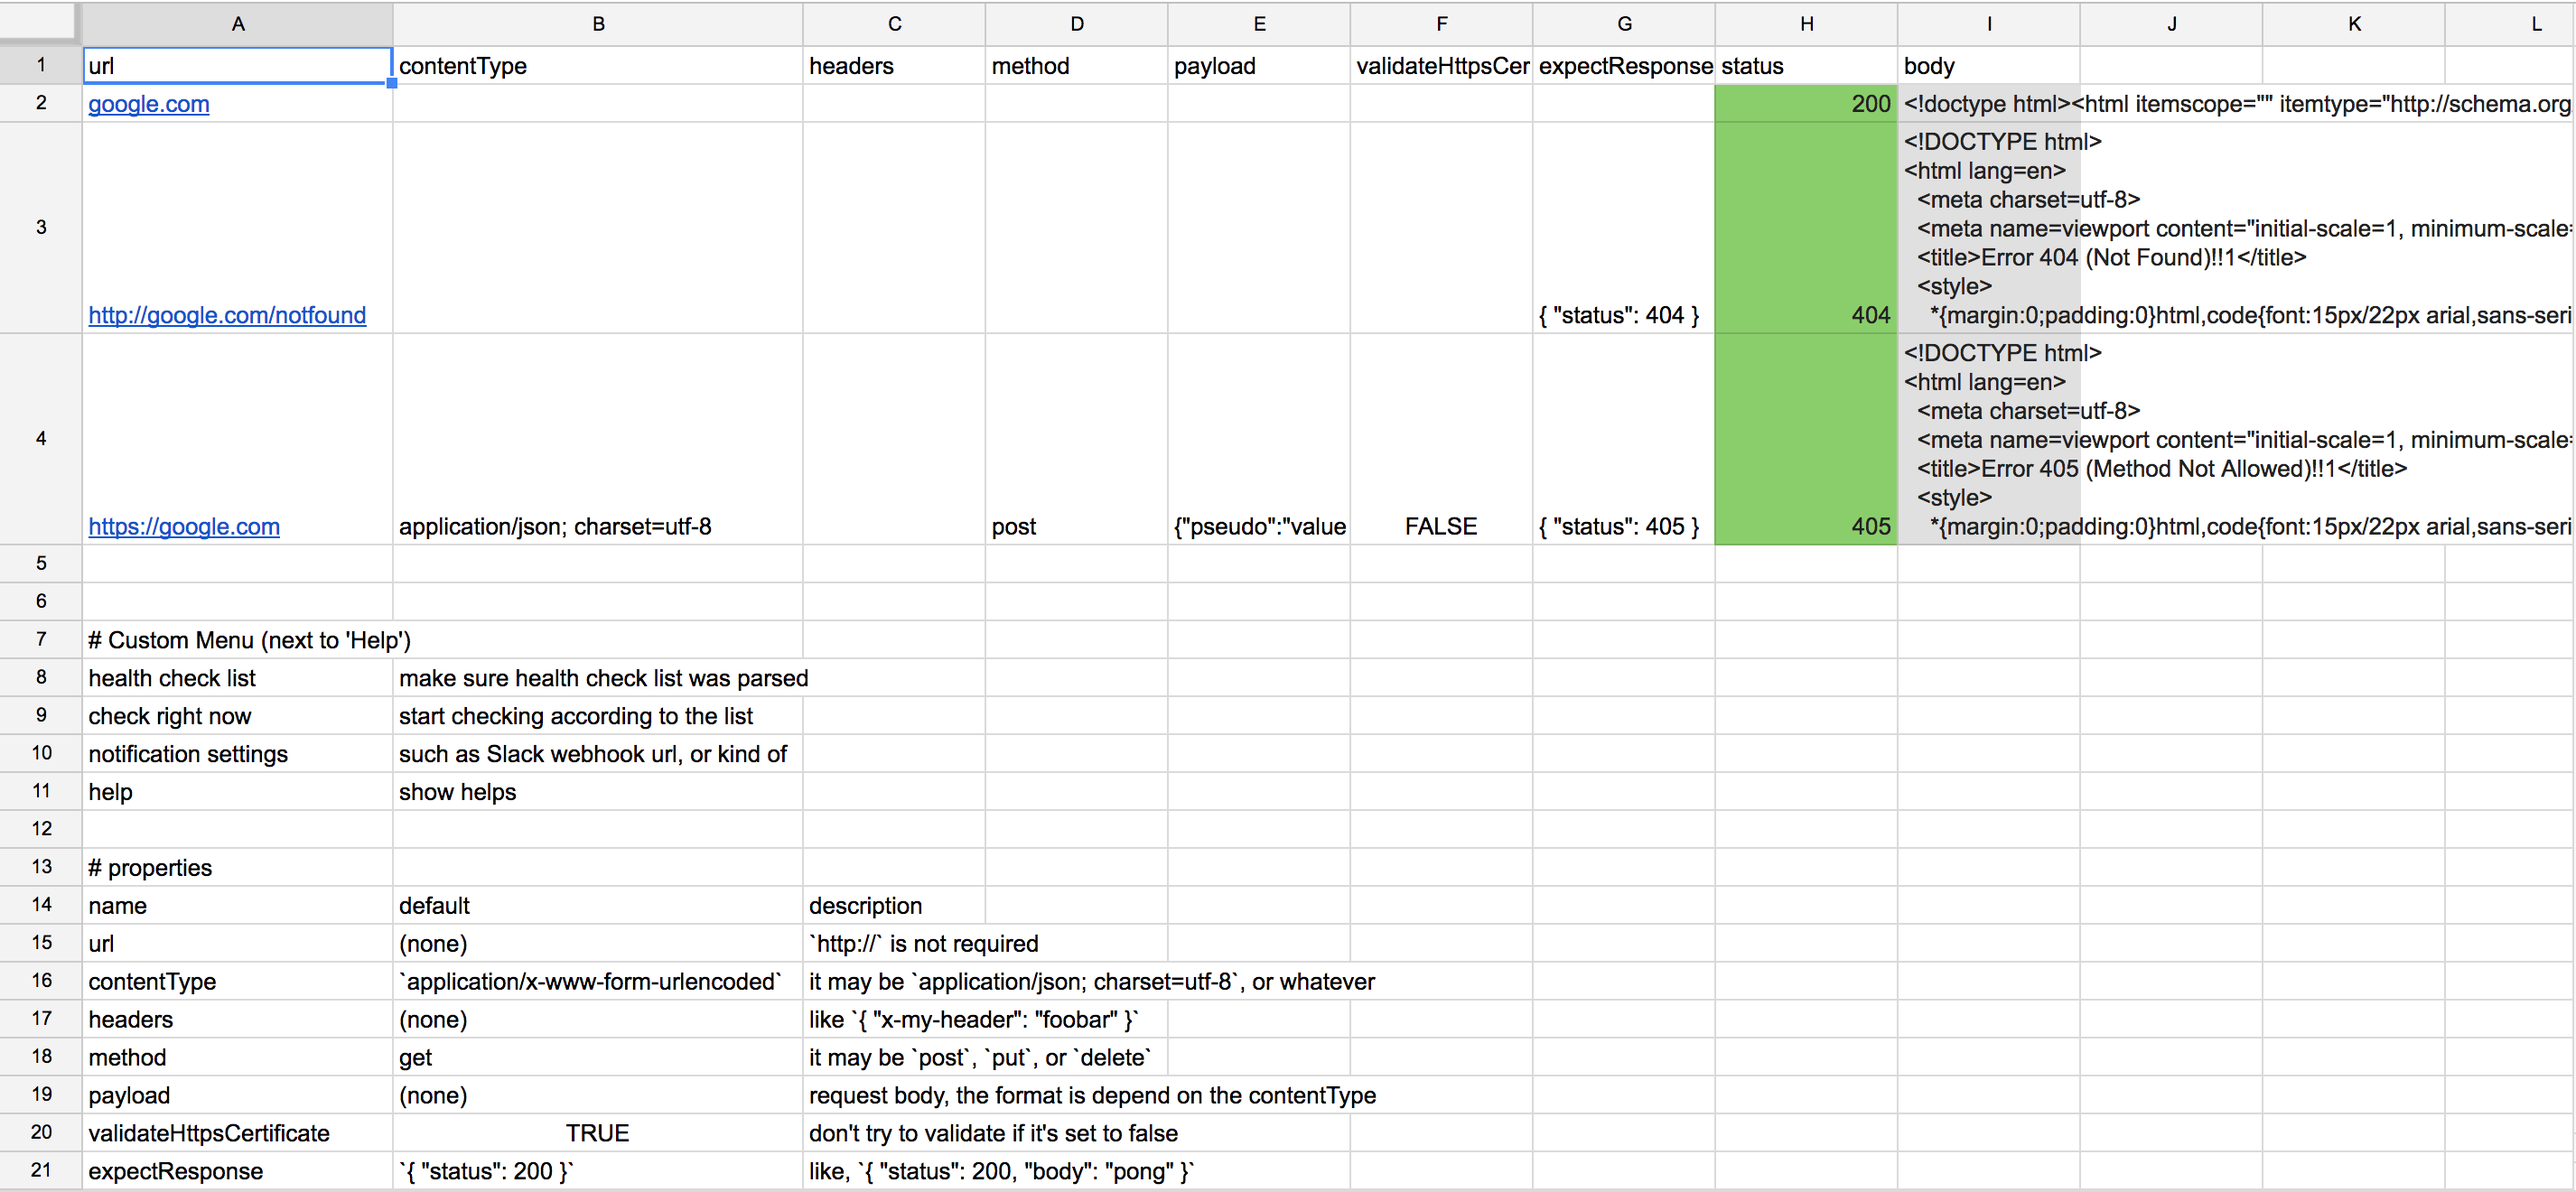
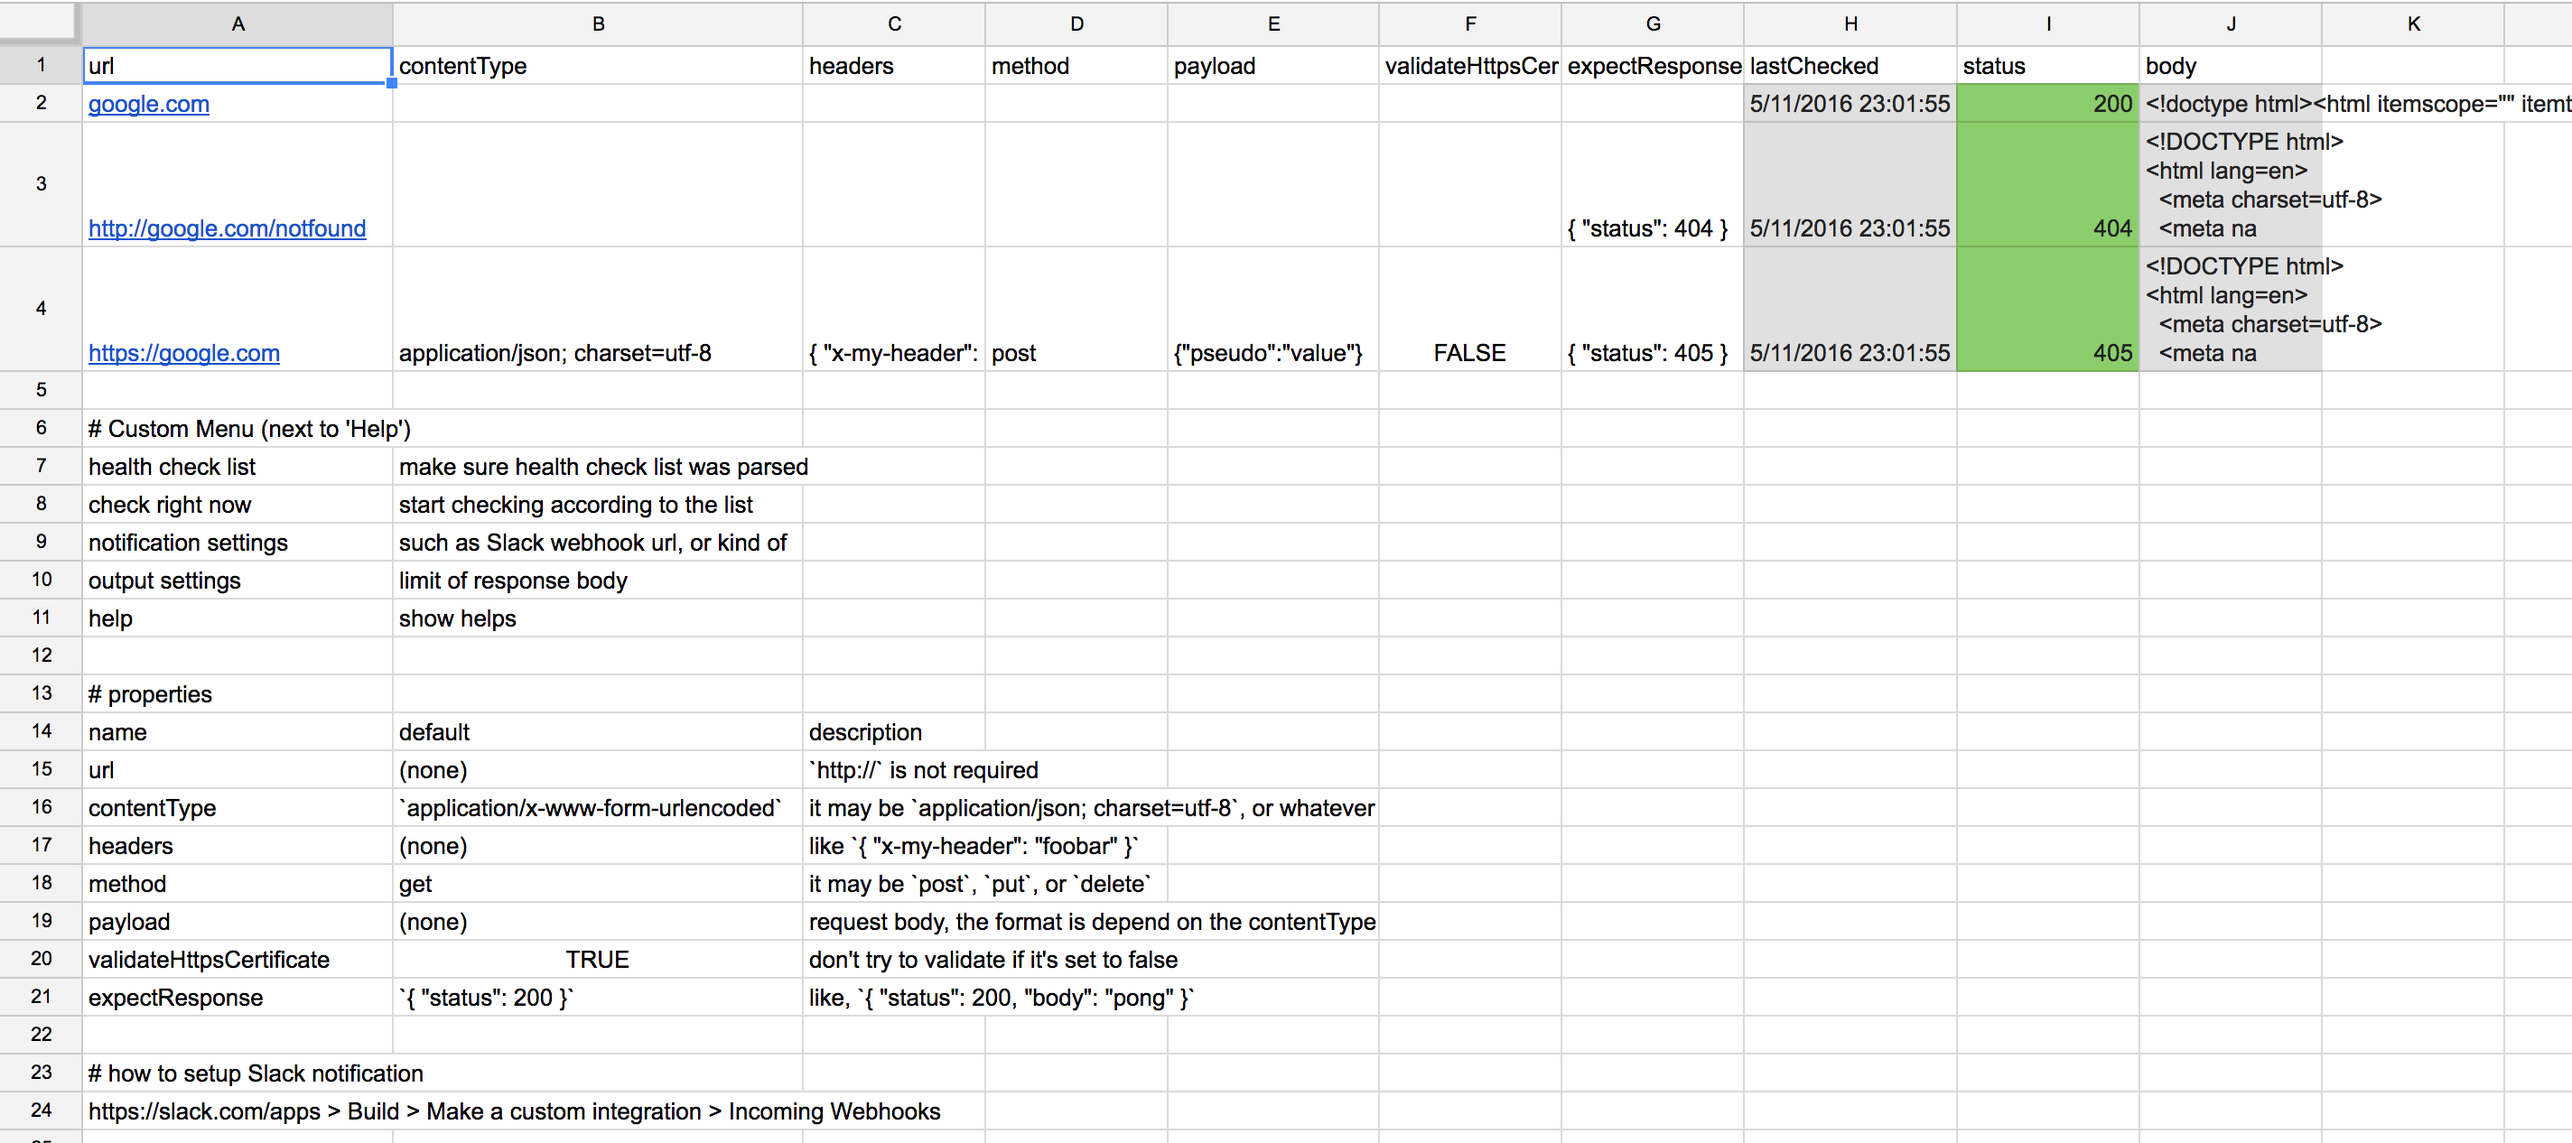
add lastChecked

diff --git a/main.js b/main.js
@@ -227,6 +227,8 @@ function sendRequest(row, rowIndex, sheet) {
 
   if (!url) return setStatus("URL NOT FOUND", rowIndex, sheet);
 
+  setLastChecked(rowIndex, sheet);
+
   var response;
   try {
     response = UrlFetchApp.fetch(url, params);
@@ -246,6 +248,30 @@ function sendRequest(row, rowIndex, sheet) {
 
   setStatus(status, rowIndex, failed, sheet);
   setBody(body, rowIndex, sheet);
+}
+
+function setCellWithColName(colName, value, rowIndex, sheet) {
+  var fields = getFields();
+
+  // find index of colName field
+  var colIndex = -1;
+  fields.forEach(function(el, i) { if (el.toLowerCase() === colName.toLowerCase()) colIndex = i; });
+
+  // create fields of colName if not exists
+  if (colIndex < 0) {
+    getCell(fields.length, 0, sheet).setValue(colName);
+    colIndex = fields.length;
+  }
+
+  // set value 
+  var cell = getCell(colIndex, rowIndex, sheet);
+  cell.setValue(value);
+  setColor(cell, { bgColor: GRAY1  });
+}
+
+function setLastChecked(rowIndex, sheet) {
+  var lastChecked = new Date();
+  setCellWithColName("lastChecked", lastChecked, rowIndex, sheet);
 }
 
 function setStatus(status, rowIndex, failed, sheet) {
@@ -272,22 +298,7 @@ function setBody(body, rowIndex, sheet) {
   body = body || "";
   body = body.slice(0, props.bodyLength || 1024);
 
-  var fields = getFields();
-
-  // find index of body field
-  var bodyIndex = -1;
-  fields.forEach(function(el, i) { if (el.toLowerCase() === "body") bodyIndex = i; });
-
-  // create fields of body if not exists
-  if (bodyIndex < 0) {
-    getCell(fields.length, 0, sheet).setValue("body");
-    bodyIndex = fields.length;
-  }
-
-  // set value 
-  var cell = getCell(bodyIndex, rowIndex, sheet);
-  cell.setValue(body);
-  setColor(cell, { bgColor: GRAY1  });
+  setCellWithColName("body", body, rowIndex, sheet);
 }
 
 // x, y start from 0 (means top cell's coordinate is (0,0))
